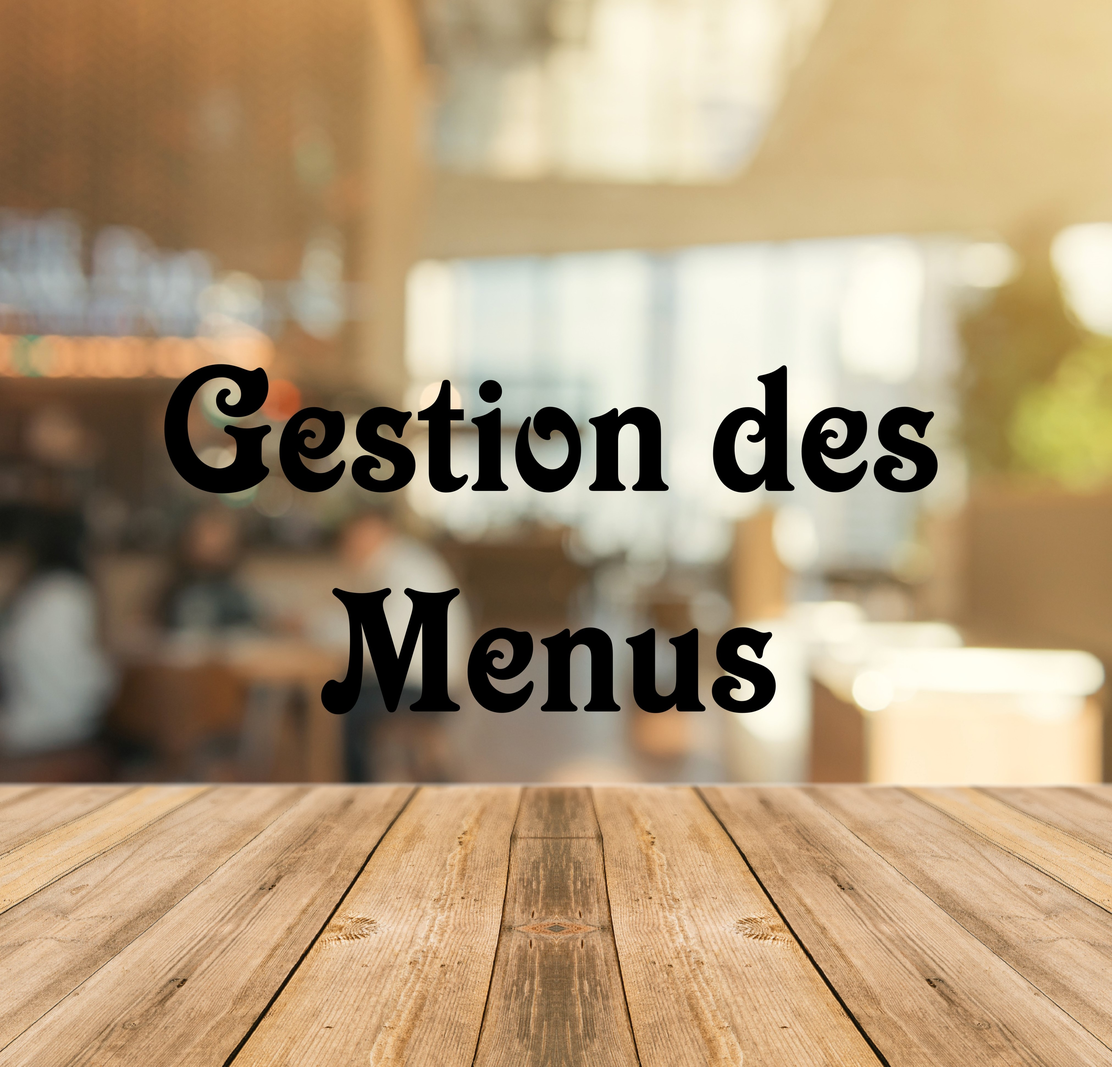
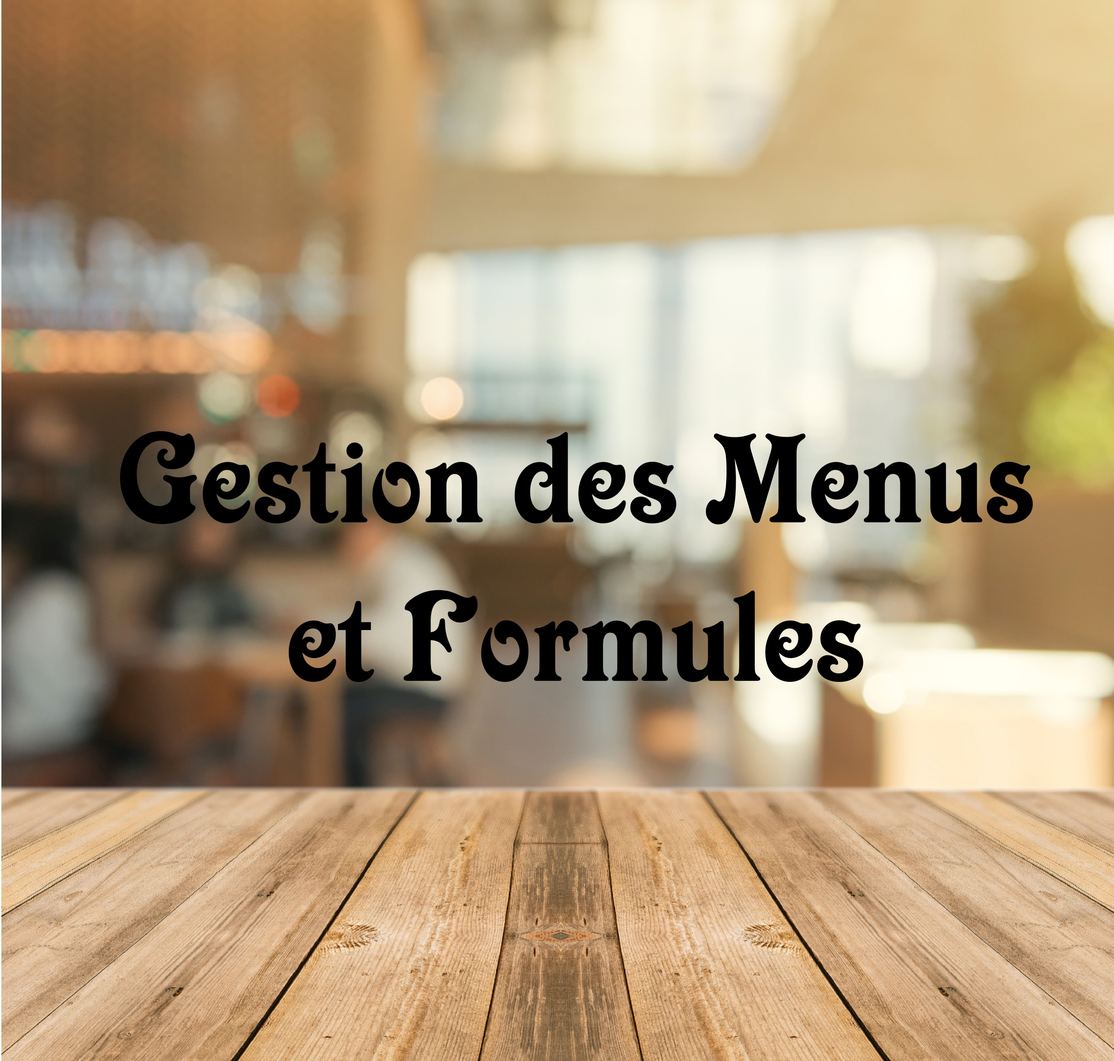
Modification des pages gestion

diff --git a/src/app/views/pages/main/gestion-horaire-jour/gestion-horaire-jour.component.html b/src/app/views/pages/main/gestion-horaire-jour/gestion-horaire-jour.component.html
@@ -48,7 +48,7 @@
                 <div class="form-group">
                     <label>Jour</label>
                     <select formControlName="jour" class="form-control">
-                        <option>Selectionnez le jour</option>
+                        <option value="">Selectionnez le jour</option>
                         <option>Lundi</option>
                         <option>Mardi</option>
                         <option>Mercredi</option>
@@ -61,7 +61,7 @@
                 <div class="form-group">
                     <label>Ouverture Matin</label>
                     <select formControlName="ouverture_matin" class="form-control">
-                        <option>Selectionnez votre horaire</option>
+                        <option value="">Selectionnez votre horaire</option>
                         <option>12h00</option>
                         <option>12h30</option>
                         <option>13h00</option>
@@ -72,7 +72,7 @@
                 <div class="form-group">
                     <label>Fermeture Matin</label>
                     <select formControlName="fermeture_matin" class="form-control">
-                        <option>Selectionnez votre horaire</option>
+                        <option value="">Selectionnez votre horaire</option>
                         <option>12h00</option>
                         <option>12h30</option>
                         <option>13h00</option>
@@ -83,7 +83,7 @@
                 <div class="form-group">
                     <label>Ouverture Soir</label>
                     <select formControlName="ouverture_soir" class="form-control">
-                        <option>Selectionnez votre horaire</option>
+                        <option value="">Selectionnez votre horaire</option>
                         <option>19h00</option>
                         <option>19h30</option>
                         <option>20h00</option>
@@ -98,7 +98,7 @@
                 <div class="form-group">
                     <label>Fermeture Soir</label>
                     <select formControlName="fermeture_soir" class="form-control">
-                        <option>Selectionnez votre horaire</option>
+                        <option value="">Selectionnez votre horaire</option>
                         <option>19h00</option>
                         <option>19h30</option>
                         <option>20h00</option>

diff --git a/src/app/views/pages/main/contact/contact.component.html b/src/app/views/pages/main/contact/contact.component.html
@@ -16,23 +16,23 @@
                     <div class="row">
                         <div class="col-md-12">
                             <div class="form-group">
-                                <input type="text" class="form-control" id="name" name="name" placeholder="Votre Nom" required data-error="Veuillez saisir votre nom">
+                                <input type="text" class="form-control"  name="name" placeholder="Votre Nom" required data-error="Veuillez saisir votre nom">
                                 <div class="help-block with-errors"></div>
                             </div>
                         </div>
                         <div class="col-md-12">
                             <div class="form-group">
-                                <input type="text" placeholder="Votre Email" id="email" class="form-control" name="name" required data-error="Veuillez saisir votre email">
+                                <input type="text" placeholder="Votre Email" class="form-control" name="name" required data-error="Veuillez saisir votre email">
                                 <div class="help-block with-errors"></div>
                             </div>
                         </div>
                         <div class="col-md-12">
                             <div class="form-group">
-                                <textarea class="form-control" id="message" placeholder="Votre Message" rows="4" data-error="Ecrirez votre message" required></textarea>
+                                <textarea class="form-control"  placeholder="Votre Message" rows="4" data-error="Ecrirez votre message" required></textarea>
                                 <div class="help-block with-errors"></div>
                             </div>
                             <div class="submit-button text-center">
-                                <button class="btn btn-common" id="submit" type="submit">Envoyer</button>
+                                <button class="btn btn-common"  type="submit">Envoyer</button>
                                 <div id="msgSubmit" class="h3 text-center hidden"></div>
                                 <div class="clearfix"></div>
                             </div>

diff --git a/src/app/views/pages/main/connexion-admin/connexion-admin.component.html b/src/app/views/pages/main/connexion-admin/connexion-admin.component.html
@@ -16,13 +16,13 @@
                     <div class="row">
                         <div class="col-md-12">
                             <div class="form-group">
-                                <input formControlName="email" type="text" class="form-control" id="name" name="name" placeholder="Votre email" required data-error="Veuillez saisir votre email">
+                                <input formControlName="email" type="text" class="form-control" id="name" placeholder="Votre email" required data-error="Veuillez saisir votre email">
                                 <div class="help-block with-errors"></div>
                             </div>
                         </div>
                         <div class="col-md-12">
                             <div class="form-group">
-                                <input formControlName="password" type="password" placeholder="Votre mot de passe" id="email" class="form-control" name="name" required data-error="Veuillez saisir votre mot de passe">
+                                <input formControlName="password" type="password" placeholder="Votre mot de passe" id="email" class="form-control" required data-error="Veuillez saisir votre mot de passe">
                                 <div class="help-block with-errors"></div>
                             </div>
                         </div>

diff --git a/src/app/views/pages/main/connexion-client/connexion-client.component.html b/src/app/views/pages/main/connexion-client/connexion-client.component.html
@@ -16,13 +16,13 @@
                     <div class="row">
                         <div class="col-md-12">
                             <div class="form-group">
-                                <input type="text" class="form-control" id="name" name="name" placeholder="Votre email" required data-error="Veuillez saisir votre email">
+                                <input type="text" class="form-control" id="name"  placeholder="Votre email" required data-error="Veuillez saisir votre email">
                                 <div class="help-block with-errors"></div>
                             </div>
                         </div>
                         <div class="col-md-12">
                             <div class="form-group">
-                                <input type="password" placeholder="Votre mot de passe" id="email" class="form-control" name="name" required data-error="Veuillez saisir votre mot de passe">
+                                <input type="password" placeholder="Votre mot de passe" id="email" class="form-control"  required data-error="Veuillez saisir votre mot de passe">
                                 <div class="help-block with-errors"></div>
                             </div>
                         </div>

diff --git a/src/app/views/pages/main/gestion-carte/gestion-carte.component.html b/src/app/views/pages/main/gestion-carte/gestion-carte.component.html
@@ -42,13 +42,13 @@
         <div class="col-md-12">
             <form [formGroup]="formGestionCarte" (ngSubmit)="createOrUpdateCarte()">
                 <div class="form-group">
-                    <input formControlName="titre" type="text" class="form-control" id="exampleInputEmail1" aria-describedby="emailHelp" placeholder="Titre">
+                    <input formControlName="titre" type="text" class="form-control" placeholder="Titre">
                 </div>
                 <div class="form-group">
-                    <input formControlName="description" type="tel" class="form-control" name="phone" placeholder="Description">
+                    <input formControlName="description" type="tel" class="form-control" placeholder="Description">
                 </div>
                 <div class="form-group">
-                    <input formControlName="prix" type="number" class="form-control" name="seats" placeholder="Prix">
+                    <input formControlName="prix" type="number" class="form-control"  placeholder="Prix">
                 </div>
                 <div class="form-group">
                     <select formControlName="est_publie" class="form-control">

diff --git a/src/app/views/pages/main/gestion-formule/gestion-formule.component.html b/src/app/views/pages/main/gestion-formule/gestion-formule.component.html
@@ -39,10 +39,10 @@
         <div class="col-md-12">
             <form [formGroup]="formGestionFormule" (ngSubmit)="createOrUpdateFormule()">
                 <div class="form-group">
-                    <input formControlName="description" type="text" class="form-control" id="exampleInputEmail1" aria-describedby="emailHelp" placeholder="Description">
+                    <input formControlName="description" type="text" class="form-control"  placeholder="Description">
                 </div>
                 <div class="form-group">
-                    <input formControlName="prix" type="number" class="form-control" name="seats" placeholder="Prix">
+                    <input formControlName="prix" type="number" class="form-control"  placeholder="Prix">
                 </div>
                 <button type="submit" class="btn btn-primary btn-block btn-reserver">Envoyer</button>
             </form>

diff --git a/src/app/views/pages/main/gestion-compte-utilisateur/gestion-compte-utilisateur.component.html b/src/app/views/pages/main/gestion-compte-utilisateur/gestion-compte-utilisateur.component.html
@@ -43,10 +43,10 @@
         <div class="col-md-12">
             <form [formGroup]="formGestionCompteUtilisateur" (ngSubmit)="createOrUpdateUtilisateur()">
                 <div class="form-group">
-                    <input formControlName="email" type="text" class="form-control" id="exampleInputEmail1" aria-describedby="emailHelp" placeholder="Email">
+                    <input formControlName="email" type="text" class="form-control"  placeholder="Email">
                 </div>
                 <div class="form-group">
-                    <input formControlName="password" type="tel" class="form-control" name="phone" placeholder="Mot de passe">
+                    <input formControlName="password" type="tel" class="form-control" placeholder="Mot de passe">
                 </div>
                 <div class="form-group">
                     <select formControlName="role" class="form-control">

diff --git a/src/app/views/pages/main/gestion-image/gestion-image.component.html b/src/app/views/pages/main/gestion-image/gestion-image.component.html
@@ -39,10 +39,10 @@
         <div class="col-md-12">
             <form [formGroup]="formGestionImage" (ngSubmit)="createOrUpdateImage()">
                 <div class="form-group">
-                    <input formControlName="titre" type="text" class="form-control" id="exampleInputEmail1" aria-describedby="emailHelp" placeholder="Titre">
+                    <input formControlName="titre" type="text" class="form-control" placeholder="Titre">
                 </div>
                 <div class="form-group">
-                    <input formControlName="path" type="file" class="form-control" name="phone" placeholder="Fichier">
+                    <input formControlName="path" type="file" class="form-control" placeholder="Fichier">
                 </div>
                 <button type="submit" class="btn btn-primary btn-block btn-reserver">Envoyer</button>
             </form>

diff --git a/src/app/views/pages/main/gestion-categorie/gestion-categorie.component.html b/src/app/views/pages/main/gestion-categorie/gestion-categorie.component.html
@@ -37,7 +37,7 @@
         <div class="col-md-12">
             <form [formGroup]="formGestionCategorie" (ngSubmit)="createOrUpdateCategorie()">
                 <div class="form-group">
-                    <input formControlName="nom" type="text" class="form-control" id="exampleInputEmail1" aria-describedby="emailHelp" placeholder="Libellé de la catégorie">
+                    <input formControlName="nom" type="text" class="form-control"  placeholder="Libellé de la catégorie">
                 </div>
                 <button type="submit" class="btn btn-primary btn-block btn-reserver">Envoyer</button>
             </form>

diff --git a/src/app/views/pages/main/gestion-menu/gestion-menu.component.html b/src/app/views/pages/main/gestion-menu/gestion-menu.component.html
@@ -2,7 +2,7 @@
     <div class="container text-center">
         <div class="row">
             <div class="col-lg-12">
-                <h1>Gestion des menus</h1>
+                <h1>Gestion des menus & formules</h1>
             </div>
         </div>
     </div>
